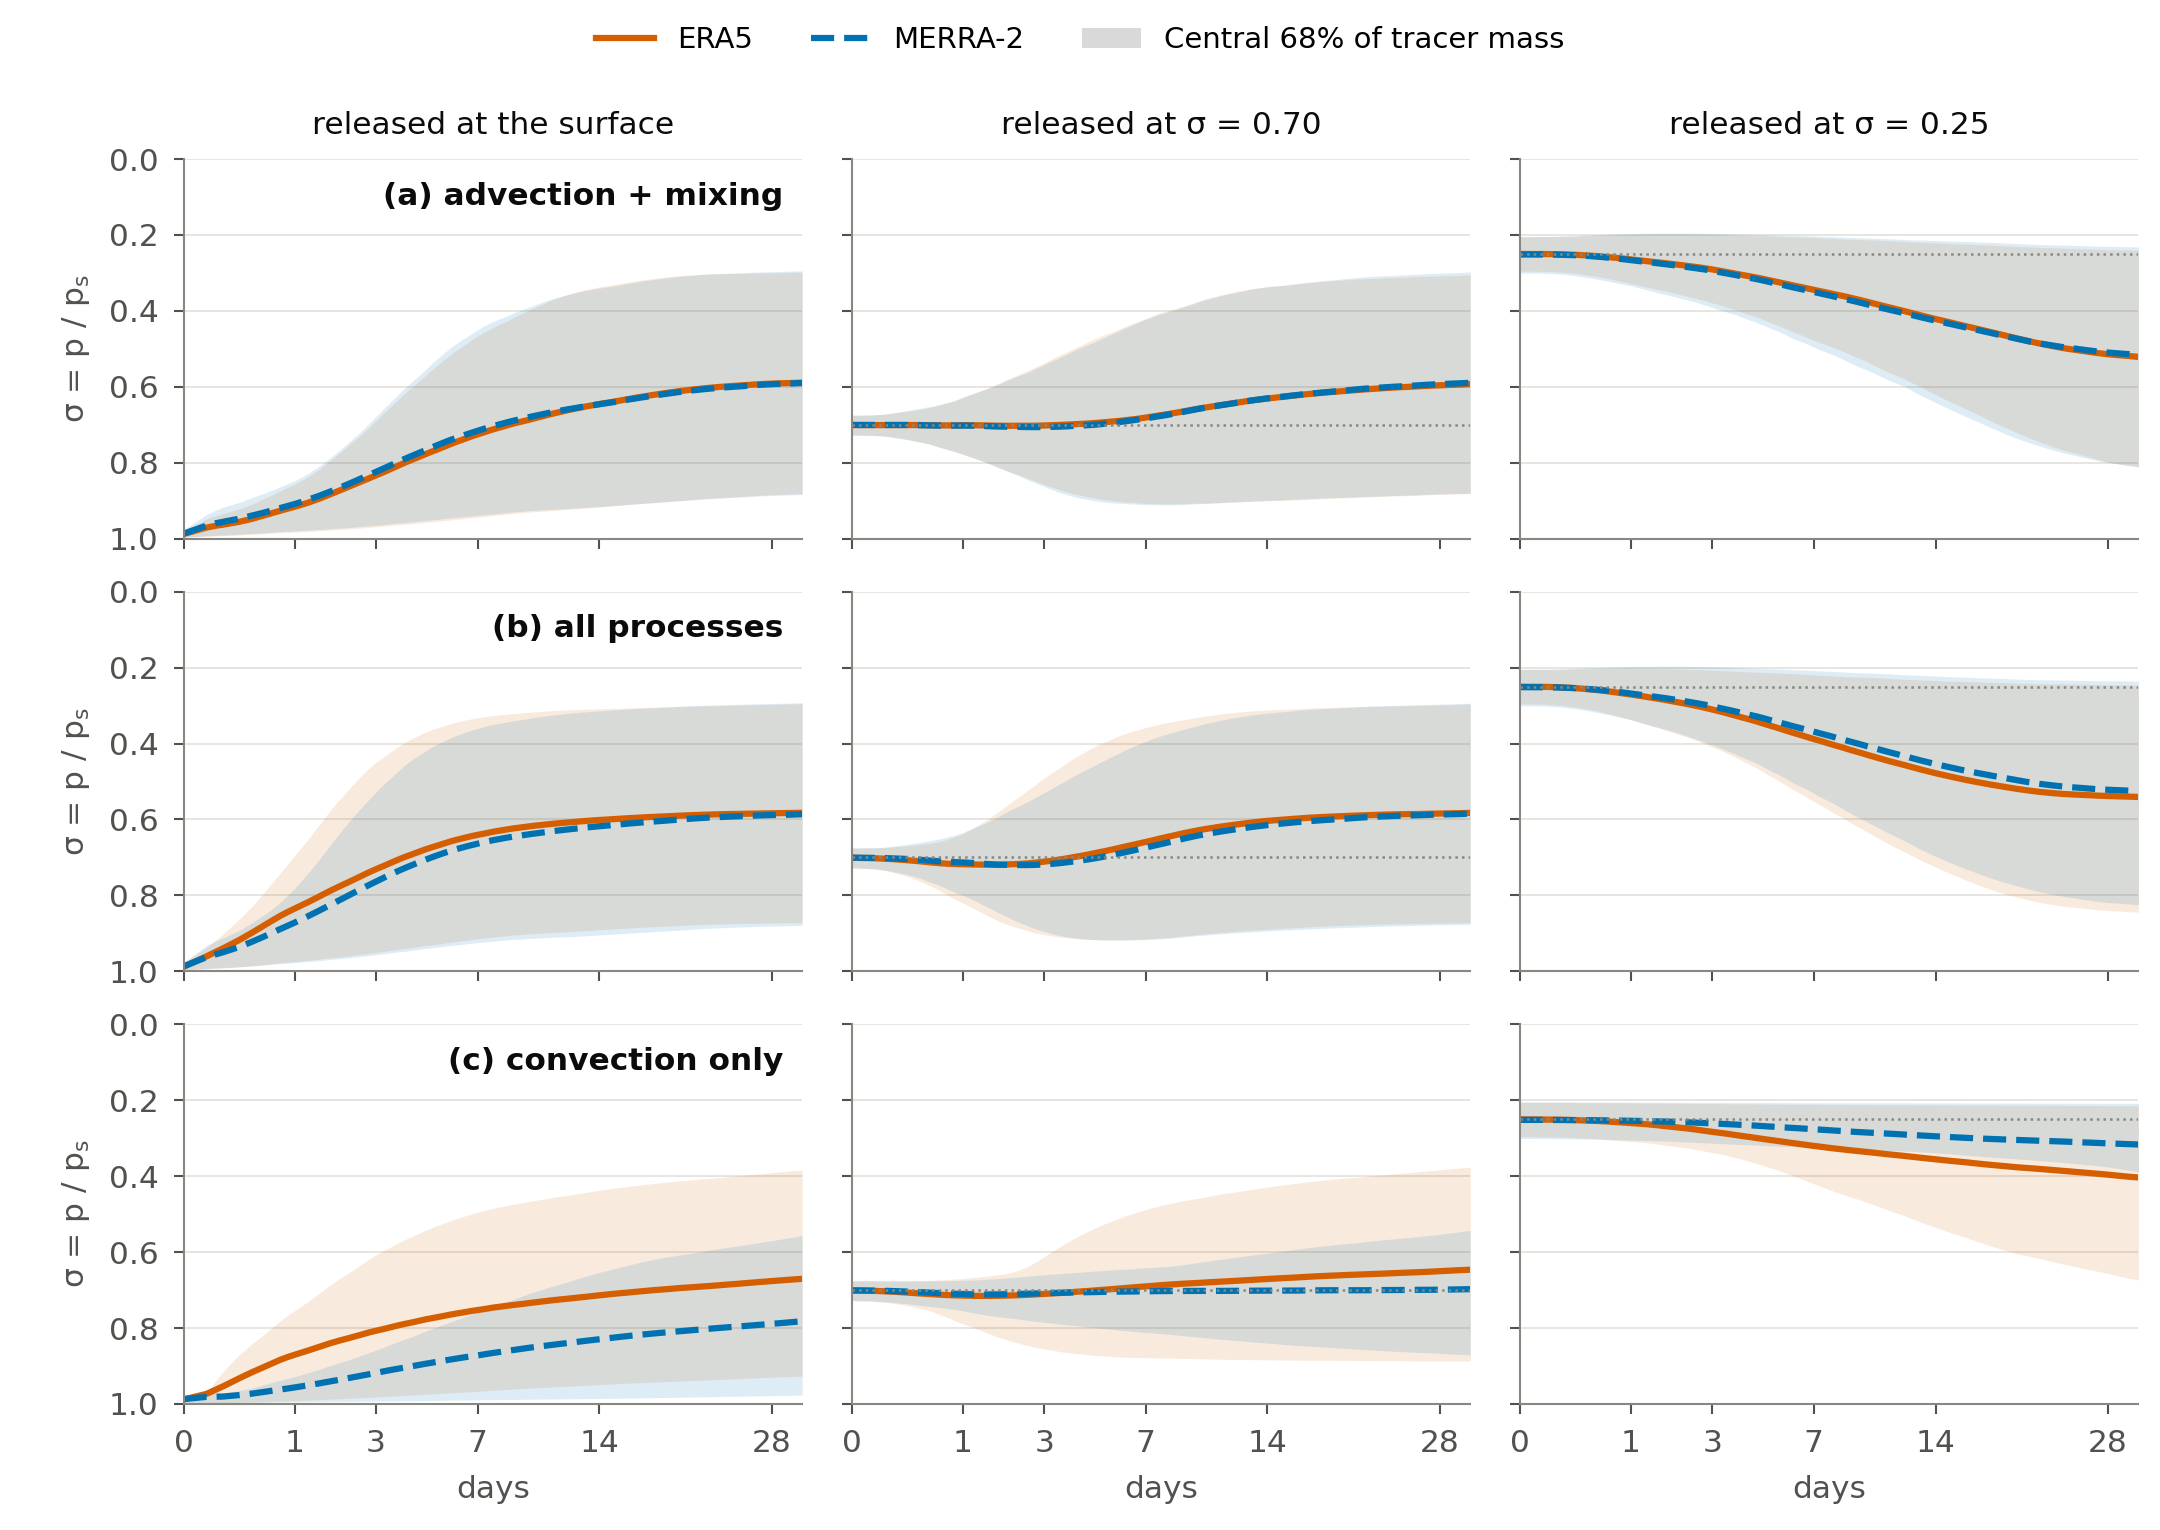
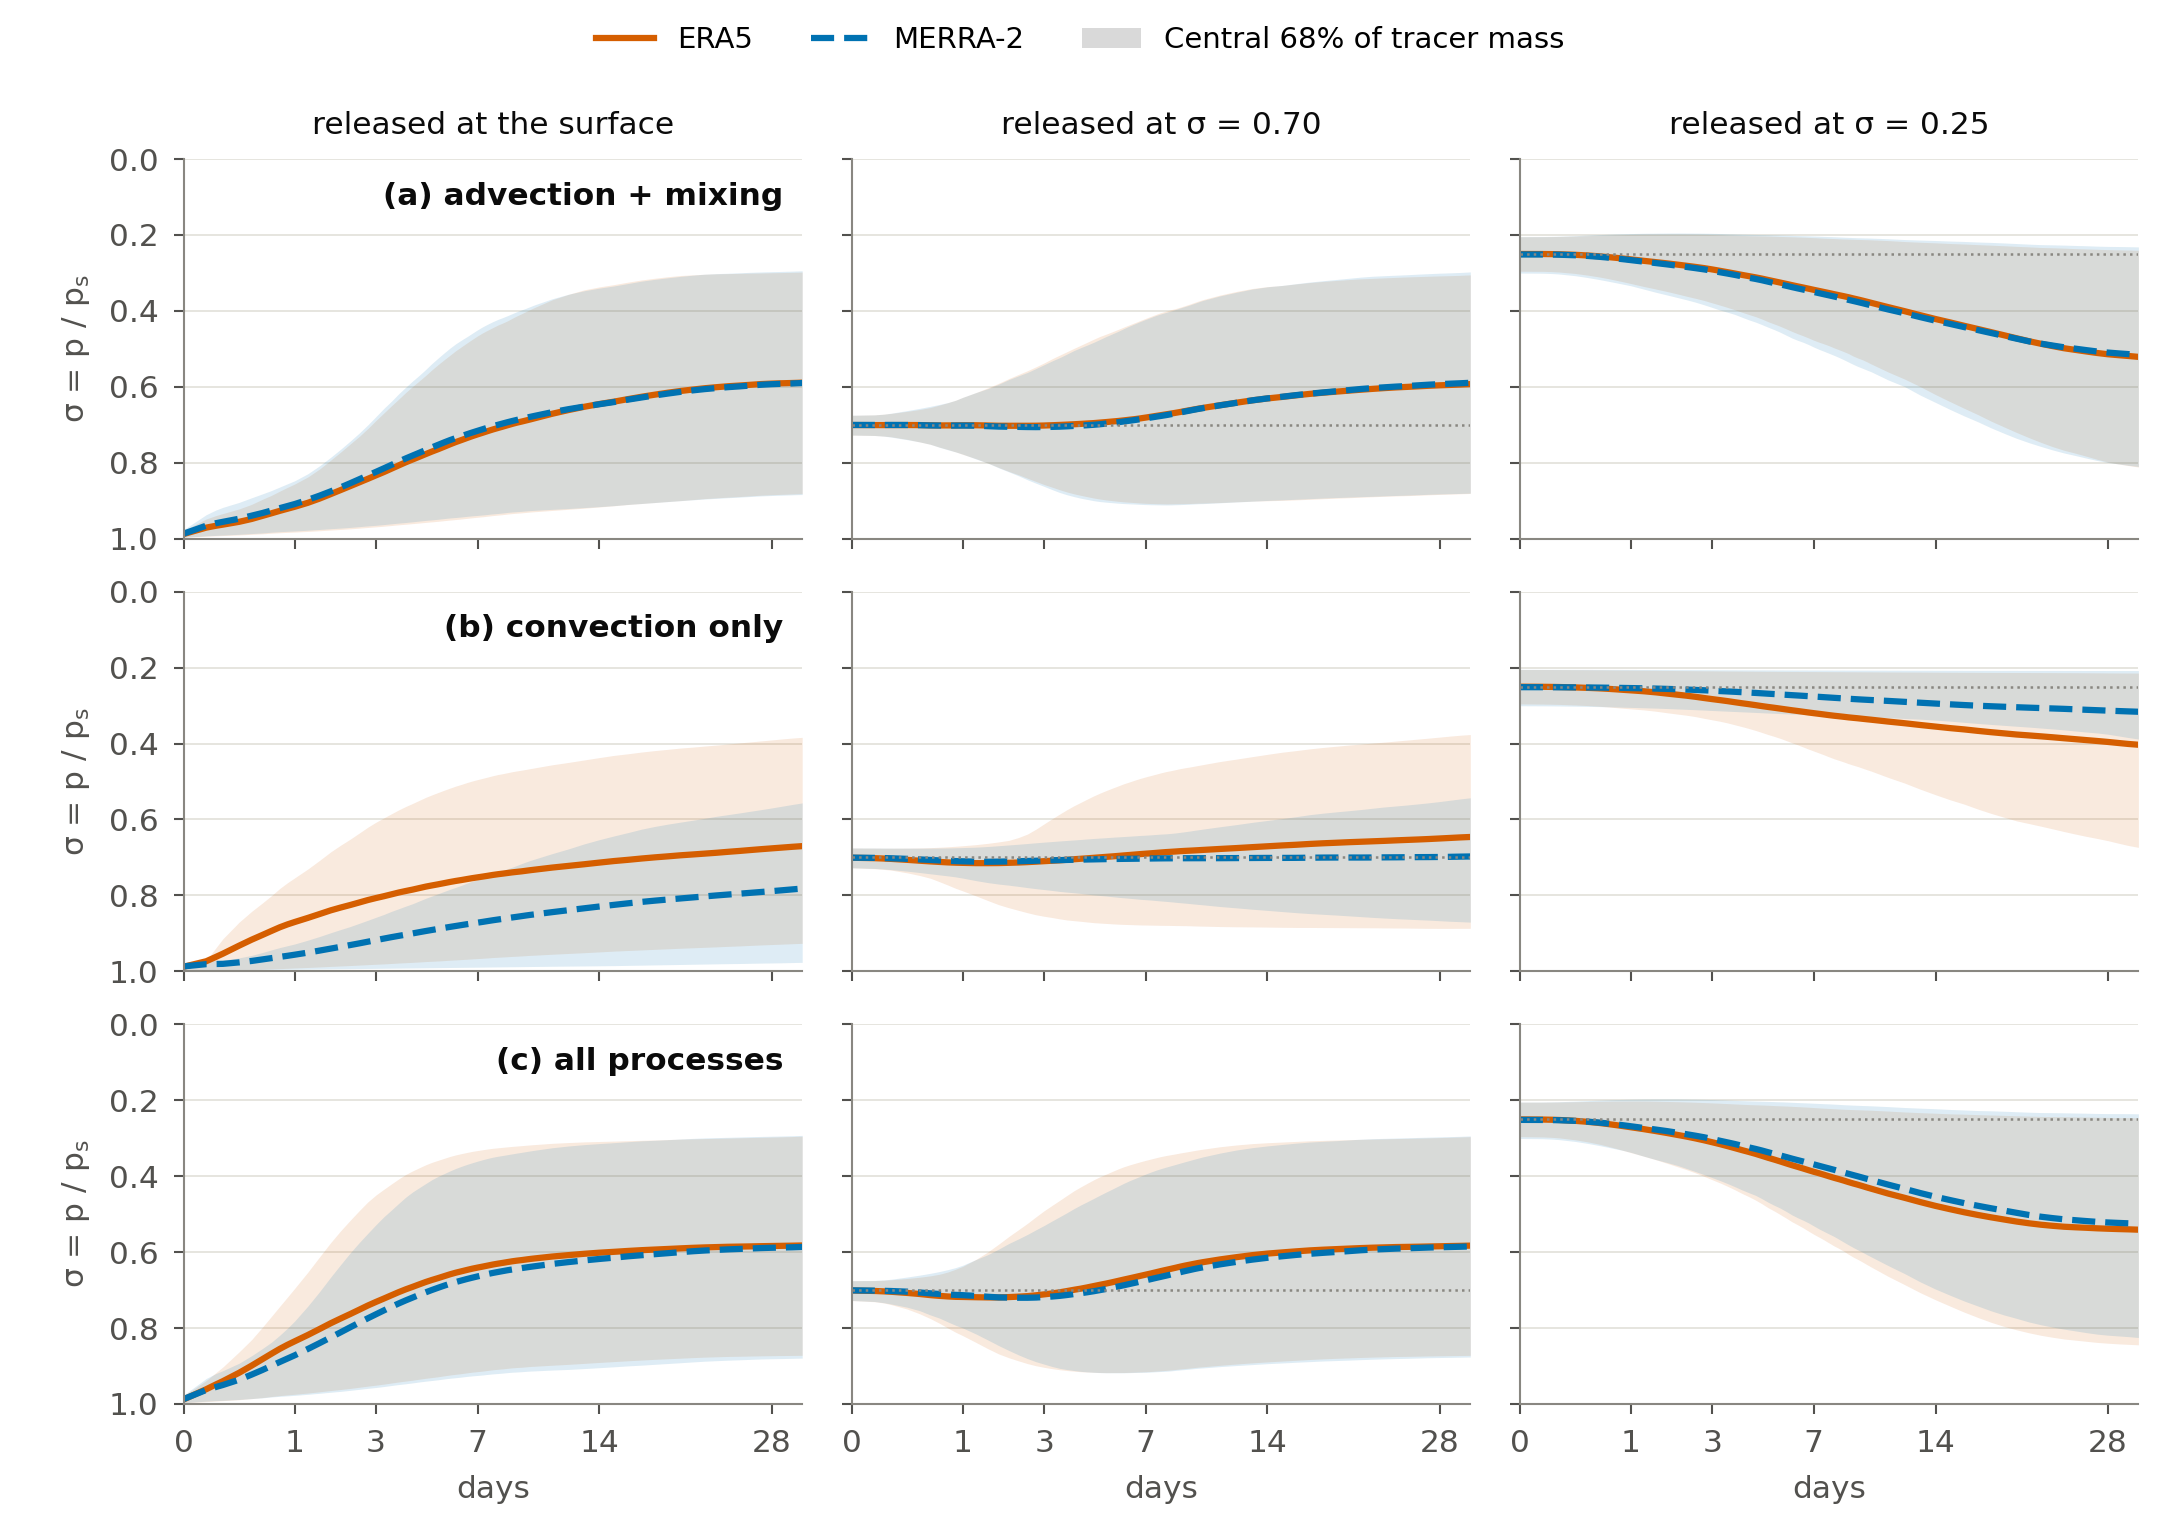
Show isolated convection before all processes in the layer comparison

diff --git a/examples/paper/layer_tracers/paper_figures.py b/examples/paper/layer_tracers/paper_figures.py
@@ -6,8 +6,8 @@
 Reads the percentile files of sigma_spread.py and the column maps of column_lift.py and writes, as
 PDF and PNG:
 
-* `layer_processes`: vertical spread with time for advection + mixing, all processes and convection
-  only, two cases overlaid;
+* `layer_processes`: vertical spread with time for advection + mixing, convection only and all
+  processes, two cases overlaid;
 * `layer_attribution`: convection only, with the cases that exchange the convective fields or the solver;
 * `layer_lift_map`: where convection lifts the surface tracer, both cases, January and July;
 * `layer_regions`: the surface tracer in selected regions, convection only.
@@ -106,7 +106,7 @@ def distribution_legend(fig):
 
 
 def figure_processes(spread, figures, month):
-    tracers, arms, cases = ("sfc", "s070", "s025"), ("AP", "APC", "C"), ("era5", "merra2")
+    tracers, arms, cases = ("sfc", "s070", "s025"), ("AP", "C", "APC"), ("era5", "merra2")
     height = 5.1
     fig, axes = plt.subplots(len(arms), len(tracers), figsize=(WIDTH, height), sharex=True, sharey=True,
                              gridspec_kw=dict(wspace=0.08, hspace=0.14, left=0.085, right=0.99, top=1 - 0.53 / height,
